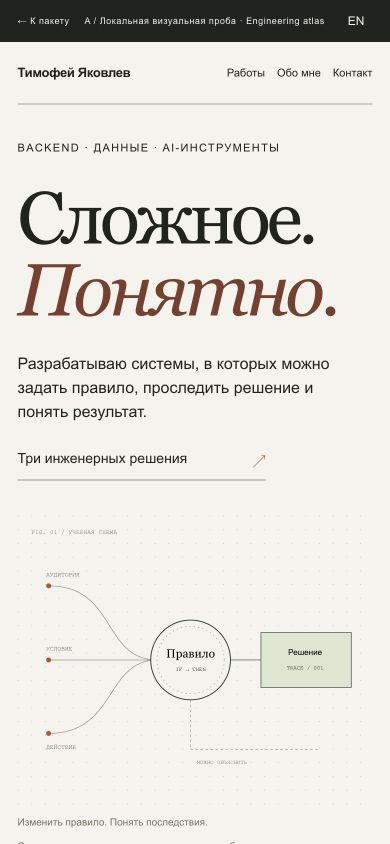
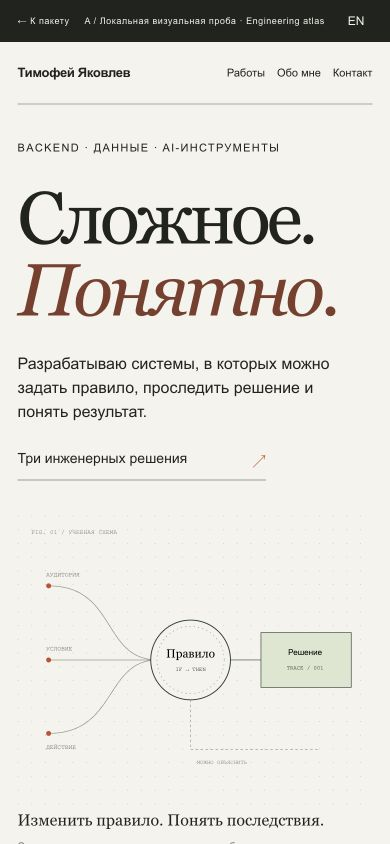
Add mobile previews and record validation

Changed region(s): [[0.0308, 0.955, 0.8308, 0.9858]]

diff --git a/concepts/a-atlas.html b/concepts/a-atlas.html
@@ -1,7 +1,7 @@
 <!doctype html><html lang="ru" data-lang="ru"><head><meta charset="utf-8"><meta name="viewport" content="width=device-width,initial-scale=1"><title>A · Engineering atlas · Timofei Iakovlev</title><style>
 *{box-sizing:border-box}html{scroll-behavior:smooth}body{margin:0;color:#20231f;background:#f5f3ec;font-family:Arial,Helvetica,sans-serif;-webkit-font-smoothing:antialiased}a{color:inherit;text-underline-offset:5px}button,select{font:inherit}button,a,select{-webkit-tap-highlight-color:transparent}button{cursor:pointer}button:focus-visible,a:focus-visible,select:focus-visible{outline:3px solid #c94c28;outline-offset:5px}html[data-lang=ru] .en,html[data-lang=en] .ru{display:none!important}.review{display:flex;align-items:center;justify-content:space-between;padding:10px 4.5%;font-size:11px;letter-spacing:.06em;background:#20231f;color:#f5f3ec;gap:15px}.review a{text-decoration:none}.review button{border:0;background:none;color:inherit;font-size:12px;padding:4px 8px}.top{margin:0 4.5%;padding:26px 0;display:flex;justify-content:space-between;gap:24px;align-items:center;border-bottom:1px solid #aaa99e}.name{font-size:16px;font-weight:600;letter-spacing:-.025em}.nav{display:flex;gap:25px;font-size:13px}.nav a{text-decoration:none}.kicker{text-transform:uppercase;font-size:11px;line-height:1.5;letter-spacing:.12em}.mono{font-family:'Courier New',monospace}.serif{font-family:Georgia,'Times New Roman',serif;font-weight:400;letter-spacing:-.055em}.link-button{display:inline-block;padding:13px 20px;border:1px solid currentColor;text-decoration:none;font-size:14px}.solid{background:#24352e;color:#fff;border-color:#24352e}.notes{margin:0 4.5%;padding:64px 0 80px;border-top:1px solid #aaa99e;display:grid;grid-template-columns:1fr 2fr;gap:10%}.notes h2{font-family:Georgia,serif;font-size:34px;font-weight:400;line-height:1.1;letter-spacing:-.03em;margin:0}.notes p{max-width:650px;line-height:1.65;margin:0 0 18px;font-size:16px}.notes .small{font-size:13px;color:#66685e}.foot{display:flex;gap:20px;flex-wrap:wrap;margin:0 4.5%;padding:25px 0 35px;font-size:12px;border-top:1px solid #aaa99e}.screen-reader{position:absolute;width:1px;height:1px;padding:0;margin:-1px;overflow:hidden;clip:rect(0,0,0,0);white-space:nowrap;border:0}@media(max-width:700px){.review{font-size:9px;gap:6px}.top{padding:23px 0}.nav{gap:12px;font-size:11px}.name{font-size:13px}.notes{grid-template-columns:1fr;gap:25px;padding-top:42px}.notes h2{font-size:30px}.notes p{font-size:15px}}@media(prefers-reduced-motion:reduce){*{animation:none!important;transition:none!important;scroll-behavior:auto!important}}
 
-.atlas-hero{display:grid;grid-template-columns:1fr 1fr;gap:4%;padding:54px 4.5% 44px;min-height:530px}.atlas-text h1{font-size:clamp(68px,7.5vw,118px);line-height:.97;margin:26px 0}.atlas-text h1 em{color:#7d3d2a;font-weight:400}.intro{font-size:17px;line-height:1.5;max-width:410px;margin:25px 0}.text-cta{font-size:14px;text-decoration:none;border-bottom:1px solid #9f9e8e;padding-bottom:8px;display:inline-flex;gap:65px}.text-cta span:last-child{color:#bf4a27}.atlas-figure{margin:0;align-self:center;border-left:1px solid #c5c4b8;padding-left:23px}.atlas-figure svg{width:100%;display:block}.atlas-figure figcaption{font-family:Georgia,serif;font-size:17px;line-height:1.5;margin:0 0 0 22px}.atlas-figure figcaption span{font:10px Arial,sans-serif;color:#757567}.work-index{margin:0 4.5% 55px}.work-index>.kicker{margin-bottom:20px}.work-index>a{display:grid;grid-template-columns:40px 1fr 1.7fr 1fr 22px;align-items:center;gap:15px;text-decoration:none;border-top:1px solid #aaa99e;padding:24px 0}.work-index b{font:11px 'Courier New';color:#98442d}.work-index h2{font:28px Georgia,serif;letter-spacing:-.035em;margin:0}.work-index p{font-size:14px;margin:0;line-height:1.4}.status{font-size:10px;color:#5e675a}.work-index>a:hover h2{text-decoration:underline;text-underline-offset:5px}@media(max-width:700px){.atlas-hero{display:block;padding-top:35px}.atlas-text h1{font-size:74px}.intro{font-size:16px;max-width:350px}.atlas-figure{margin-top:35px;padding-left:0;border:0}.atlas-figure svg{max-height:320px}.atlas-figure figcaption{font-size:16px;margin-left:0}.work-index>a{grid-template-columns:25px 1fr 20px;gap:10px;padding:20px 0}.work-index p{grid-column:2}.work-index .status{grid-column:2}.work-index>a>span:last-child{grid-column:3;grid-row:1}.work-index h2{font-size:25px}}
+.atlas-hero{display:grid;grid-template-columns:1fr 1fr;gap:4%;padding:54px 4.5% 44px;min-height:530px}.atlas-text h1{font-size:clamp(68px,7.5vw,118px);line-height:.97;margin:26px 0}.atlas-text h1 em{color:#7d3d2a;font-weight:400}.intro{font-size:17px;line-height:1.5;max-width:410px;margin:25px 0}.text-cta{font-size:14px;text-decoration:none;border-bottom:1px solid #9f9e8e;padding-bottom:8px;display:inline-flex;gap:65px}.text-cta span:last-child{color:#bf4a27}.atlas-figure{margin:0;align-self:center;border-left:1px solid #c5c4b8;padding-left:23px}.atlas-figure svg{width:100%;display:block}.atlas-figure figcaption{font-family:Georgia,serif;font-size:17px;line-height:1.5;margin:0 0 0 22px}.atlas-figure figcaption span{font:inherit;color:inherit}.atlas-figure figcaption>span:not([class]){font:10px Arial,sans-serif;color:#757567}.work-index{margin:0 4.5% 55px}.work-index>.kicker{margin-bottom:20px}.work-index>a{display:grid;grid-template-columns:40px 1fr 1.7fr 1fr 22px;align-items:center;gap:15px;text-decoration:none;border-top:1px solid #aaa99e;padding:24px 0}.work-index b{font:11px 'Courier New';color:#98442d}.work-index h2{font:28px Georgia,serif;letter-spacing:-.035em;margin:0}.work-index p{font-size:14px;margin:0;line-height:1.4}.status{font-size:10px;color:#5e675a}.work-index>a:hover h2{text-decoration:underline;text-underline-offset:5px}@media(max-width:700px){.atlas-hero{display:block;padding-top:35px}.atlas-text h1{font-size:74px}.intro{font-size:16px;max-width:350px}.atlas-figure{margin-top:35px;padding-left:0;border:0}.atlas-figure svg{max-height:320px}.atlas-figure figcaption{font-size:16px;margin-left:0}.work-index>a{grid-template-columns:25px 1fr 20px;gap:10px;padding:20px 0}.work-index p{grid-column:2}.work-index .status{grid-column:2}.work-index>a>span:last-child{grid-column:3;grid-row:1}.work-index h2{font-size:25px}}
 </style></head><body><div class="review"><a href="../index.html">← <span class="ru" >К пакету</span><span class="en" >Back to package</span></a><span>A / <span class="ru" >Локальная визуальная проба</span><span class="en" >Local design study</span> · Engineering atlas</span><button id="language" aria-label="Switch language">EN</button></div><header class="top"><div class="name"><span class="ru" >Тимофей Яковлев</span><span class="en" >Timofei Iakovlev</span></div><nav class="nav" aria-label="Main"><a href="#work"><span class="ru" >Работы</span><span class="en" >Work</span></a><a href="../index.html#audiences"><span class="ru" >Обо мне</span><span class="en" >About</span></a><a href="mailto:timka6942@gmail.com"><span class="ru" >Контакт</span><span class="en" >Contact</span></a></nav></header><main><section class="atlas-hero"><div class="atlas-text"><div class="kicker"><span class="ru" >Backend · Данные · AI-инструменты</span><span class="en" >Backend · Data · AI tools</span></div><h1 class="serif"><span class="ru" >Сложное.<br><em>Понятно.</em></span><span class="en" >Complex.<br><em>Made clear.</em></span></h1><p class="intro"><span class="ru" >Разрабатываю системы, в которых можно задать правило, проследить решение и понять результат.</span><span class="en" >I build systems where you can define a rule, follow a decision and understand the result.</span></p><a class="text-cta" href="#work"><span class="ru" >Три инженерных решения</span><span class="en" >Three engineering decisions</span> <span>↗</span></a></div><figure class="atlas-figure"><svg viewBox="0 0 570 470" role="img" aria-label="A rule becomes a traceable decision"><defs><pattern id="grid" width="22" height="22" patternUnits="userSpaceOnUse"><circle cx="1" cy="1" r=".65" fill="#bdbcb0"/></pattern><marker id="arrow" markerWidth="8" markerHeight="8" refX="6" refY="4" orient="auto"><path d="M0 0 L8 4 L0 8" fill="none" stroke="#323c31"/></marker></defs><rect width="570" height="470" fill="url(#grid)"/><path d="M50 113 C160 113 135 232 225 232 M50 232H225 M50 350C160 350 140 232 225 232" fill="none" stroke="#999e8a" stroke-width="1.2"/><circle cx="278" cy="232" r="64" fill="#f5f3ec" stroke="#283d31" stroke-width="1.5"/><circle cx="278" cy="232" r="54" fill="none" stroke="#999e8a" stroke-dasharray="2 5"/><path d="M342 232H485" stroke="#283d31" marker-end="url(#arrow)"/><rect x="391" y="188" width="145" height="88" fill="#dce5cf" stroke="#283d31"/><text x="278" y="228" text-anchor="middle" font-family="Georgia" font-size="19"><tspan class="ru" >Правило</tspan><tspan class="en" >Rule</tspan></text><text x="278" y="250" text-anchor="middle" font-family="Courier New" font-size="9">IF → THEN</text><text x="462" y="224" text-anchor="middle" font-family="Arial" font-size="13"><tspan class="ru" >Решение</tspan><tspan class="en" >Decision</tspan></text><text x="462" y="247" text-anchor="middle" font-family="Courier New" font-size="9">TRACE / 001</text><g font-family="Courier New" font-size="10" fill="#495441"><text x="46" y="98"><tspan class="ru" >АУДИТОРИЯ</tspan><tspan class="en" >AUDIENCE</tspan></text><text x="46" y="217"><tspan class="ru" >УСЛОВИЕ</tspan><tspan class="en" >CONDITION</tspan></text><text x="46" y="375"><tspan class="ru" >ДЕЙСТВИЕ</tspan><tspan class="en" >ACTION</tspan></text></g><circle cx="50" cy="113" r="4" fill="#c94c28"/><circle cx="50" cy="232" r="4" fill="#c94c28"/><circle cx="50" cy="350" r="4" fill="#c94c28"/><path d="M278 296V376H485" fill="none" stroke="#91977f" stroke-dasharray="4 4"/><text x="288" y="399" font-family="Courier New" font-size="9" fill="#626c57"><tspan class="ru" >МОЖНО ОБЪЯСНИТЬ</tspan><tspan class="en" >CAN BE EXPLAINED</tspan></text><text x="22" y="30" font-family="Courier New" font-size="10" fill="#666">FIG. 01 / <tspan class="ru" >УЧЕБНАЯ СХЕМА</tspan><tspan class="en" >ILLUSTRATIVE MODEL</tspan></text></svg><figcaption><span class="ru" >Изменить правило. Понять последствия.</span><span class="en" >Change the rule. Understand the consequences.</span><br><span><span class="ru" >Синтетическая иллюстрация · не материалы банка</span><span class="en" >Synthetic illustration · no bank materials</span></span></figcaption></figure></section><section class="work-index" id="work"><div class="kicker"><span class="ru" >Избранные работы / 01—03</span><span class="en" >Selected work / 01—03</span></div><a href="../index.html#cases"><b>01</b><h2><span class="ru" >Т-Банк</span><span class="en" >T-Bank</span></h2><p><span class="ru" >Эксперименты становятся конфигурацией.</span><span class="en" >Experiments become configuration.</span></p><span class="status"><span class="ru" >Командная разработка</span><span class="en" >Team development</span></span><span>↗</span></a><a href="c-workshop.html"><b>02</b><h2>CODY</h2><p><span class="ru" >Голос встречается с реальной работой.</span><span class="en" >Voice meets real work.</span></p><span class="status"><span class="ru" >Личный прототип</span><span class="en" >Personal prototype</span></span><span>↗</span></a><a href="b-lab.html"><b>03</b><h2>BPMN.space</h2><p><span class="ru" >От неоднозначного текста к процессу.</span><span class="en" >From ambiguous text to a process.</span></p><span class="status"><span class="ru" >Командный прототип</span><span class="en" >Team prototype</span></span><span>↗</span></a></section><section class="notes"><h2><span class="ru" >A / Инженерный<br>атлас</span><span class="en" >A / Engineering<br>atlas</span></h2><div><p><span class="ru" >Сайт как небольшое собрание решений. В каждом кейсе — исходная задача, личный вклад, один понятный артефакт и границы результата. Крупная типографика привлекает внимание; внимательное чтение вознаграждается глубиной.</span><span class="en" >A small collection of engineering decisions. Each case has a problem, a personal contribution, one legible artifact and a clear account of its limitations. Large typography draws attention; close reading is rewarded with depth.</span></p><p><span class="ru" >Работа: открыть устройство решения. Университет: увидеть процесс обучения. Сотрудничество: понять, как будем разбирать задачу вместе. Эти маршруты ведут к одним и тем же фактам.</span><span class="en" >Hiring: inspect a decision. University: understand the learning process. Collaboration: see how we could work through a problem together. All three routes lead to the same facts.</span></p><p class="small"><span class="ru" >Рекомендуемый каркас. Бумажный фон, наборная сетка, тёплый чёрный, красный редакционный акцент. Схема нарисована для этой пробы и ничего не сообщает о внутренней архитектуре Т-Банка.</span><span class="en" >Recommended foundation. Paper tones, editorial grid, warm black and a red editorial accent. The diagram was made for this study and does not describe T-Bank’s internal architecture.</span></p></div></section></main><footer class="foot"><span>Timofei Iakovlev · 2026</span><a href="a-atlas.html">A / Atlas</a><a href="b-lab.html">B / Lab</a><a href="c-workshop.html">C / Workshop</a><a href="../index.html"><span class="ru" >Все материалы</span><span class="en" >All materials</span></a></footer><script>
 const root=document.documentElement;
 function lang(){return root.dataset.lang||'ru'}

diff --git a/VALIDATION.md b/VALIDATION.md
@@ -1,0 +1,16 @@
+# Проверка пакета
+
+Проверено 6 ноября 2026.
+
+- Оба PDF имеют одну страницу, выделяемый текст и три действующих hyperlink-аннотации. Каждая страница отрендерена и визуально просмотрена.
+- HTML-пробы A, B и C просмотрены при 1280 × 720 и 390 × 844. В проверенных мобильных состояниях горизонтального выхода страницы нет.
+- RU/EN переключение работает. В B проверены ошибка без согласующего, успешное уточнение роли и перевод результата на английский. В C проверено переключение на главу об обучении.
+- JavaScript трёх проб проходит проверку синтаксиса. Все относительные ссылки в Markdown и HTML публичного пакета разрешаются в существующие файлы.
+- SVG-схемы аудиторий, архитектуры и уровней источников просмотрены. График источников отражает 30 записей, смешанные категории посчитаны отдельно.
+- Публичный пакет проверен на частные абсолютные пути, внутренние банковские URL/идентификаторы и типовые секреты. Оригиналы частных источников и закрытый проектный код в пакет не включены.
+
+## Пределы проверки
+
+Это проверка материалов исследования и локальных визуальных проб. Она не включает полноценный accessibility-аудит, тестирование на физических устройствах, измерение конверсии, интервью с целевыми аудиториями, проверку кадровых документов или повторный запуск CODY/BPMN.space. Требования вузов проверялись по публичным страницам; закрытые формы не отправлялись.
+
+GitHub содержит исследование, исходные HTML-пробы и черновики карьерных материалов. GitHub Pages не включён. LinkedIn и существующие проектные репозитории не изменялись.
